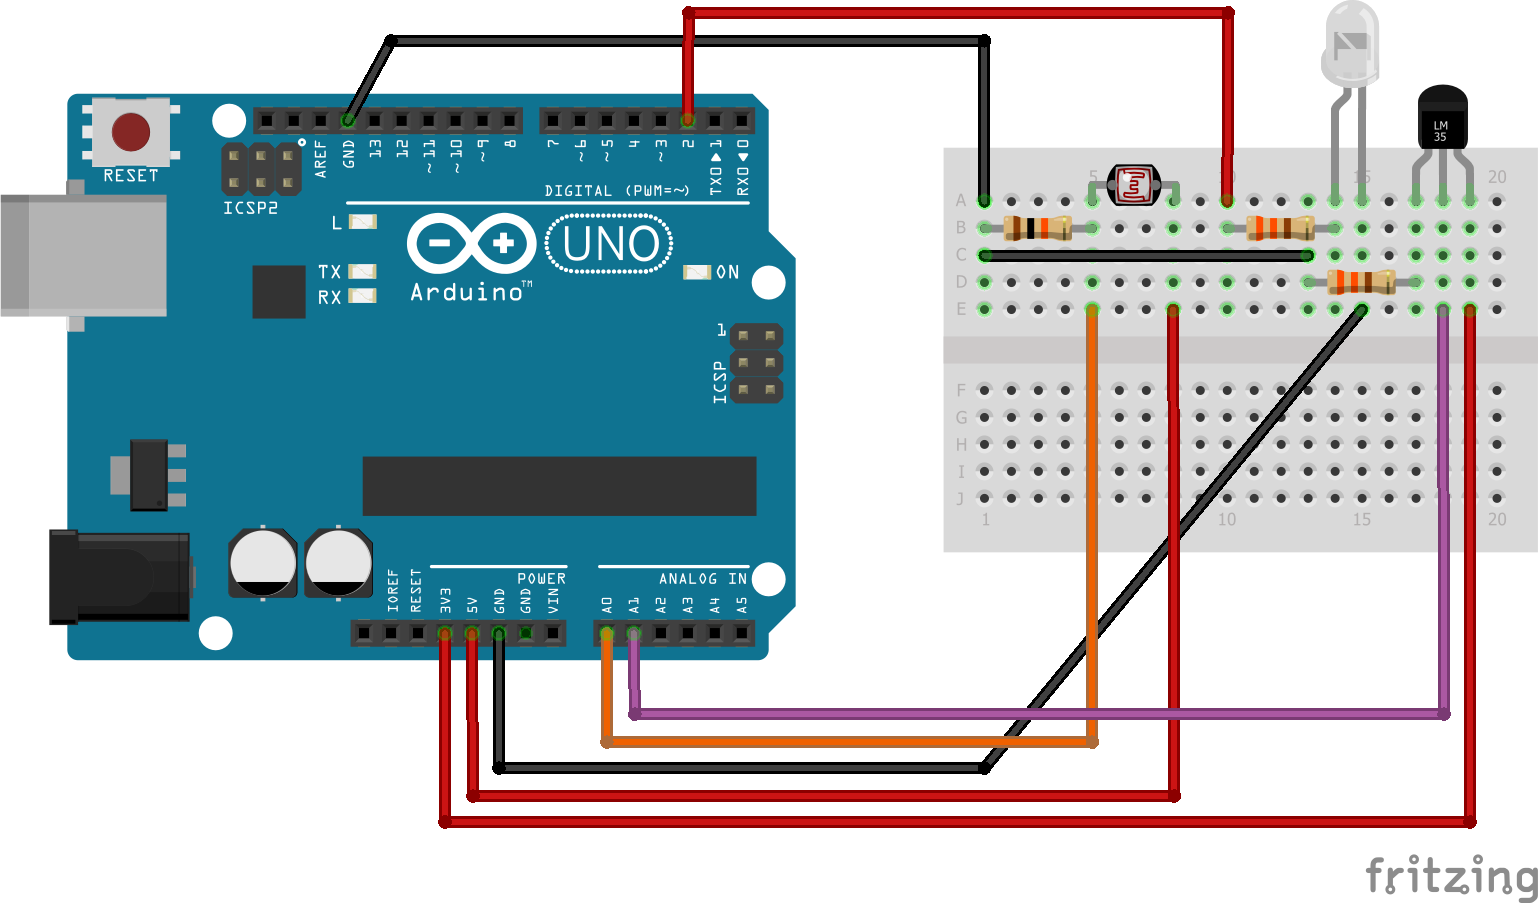
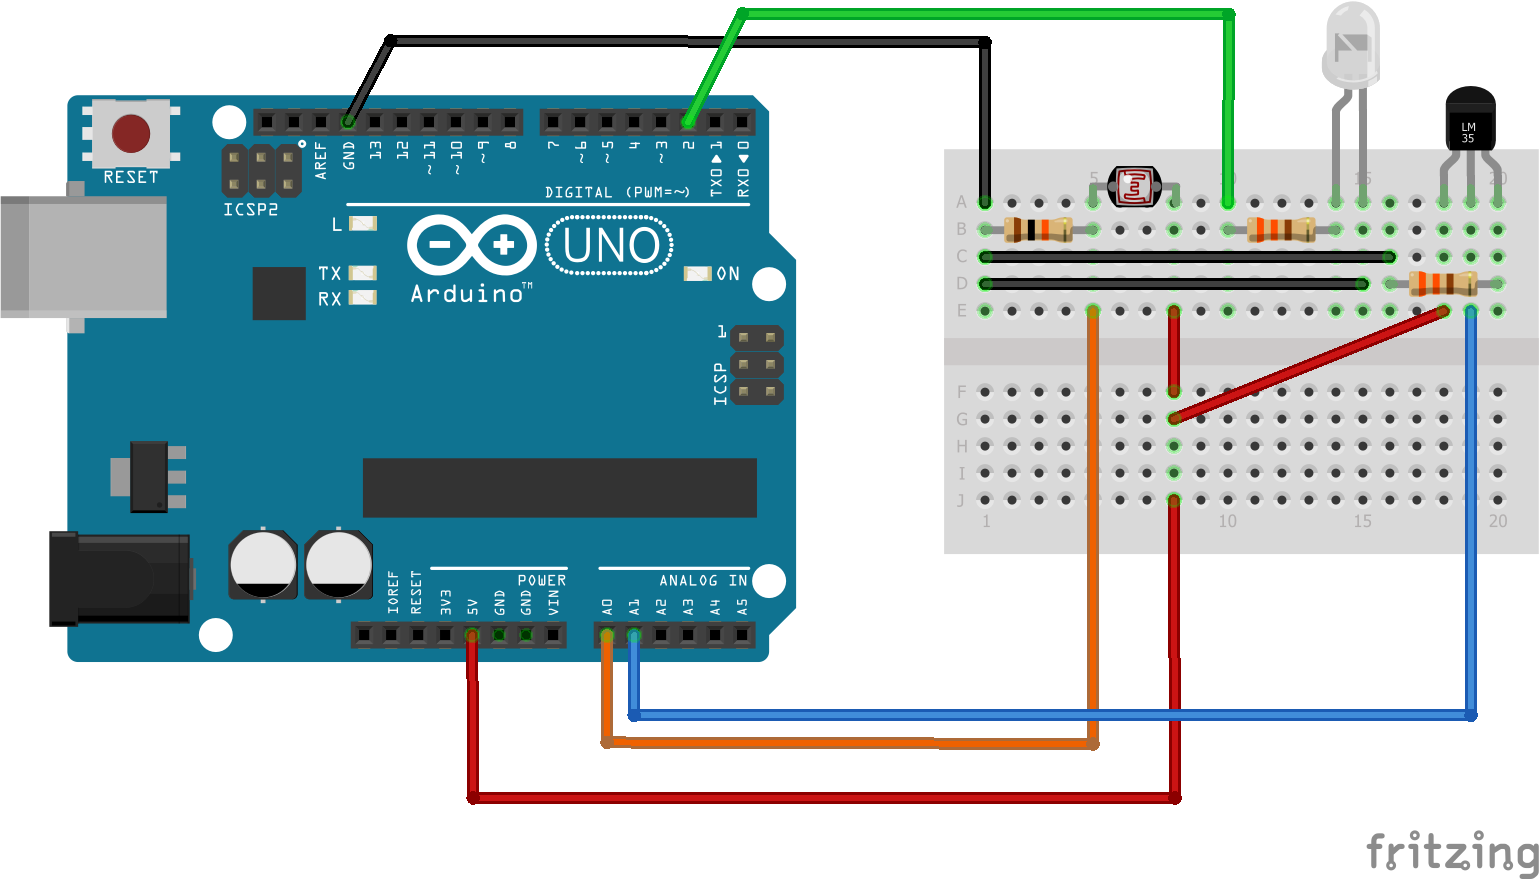
Serial send

diff --git a/luminosidade.py b/luminosidade.py
@@ -1,0 +1,28 @@
+#https://www.embarcados.com.br/python-e-arduino-comunicacao-serial/
+#https://www.youtube.com/watch?v=OleCp_TAXC8
+#!/usr/bin/python
+# -*- coding: iso-8859-1 -*-
+import time
+import serial
+
+# Iniciando conexao serial
+#comport = serial.Serial('/dev/ttyUSB0', 9600)
+#comport = serial.Serial('/dev/ttyUSB0', 9600, timeout=1) # Setando timeout 1s para a conexao
+comport = serial.Serial('com5', 9600, timeout=5) # Setando timeout 1s para a conexao
+
+PARAM_CARACTER='t'
+PARAM_ASCII=str(chr(116)) # Equivalente 116 = t
+
+# Time entre a conexao serial e o tempo para escrever (enviar algo)
+time.sleep(1.8) # Entre 1.5s a 2s
+
+#comport.write(PARAM_CARACTER)
+comport.write(chr(116))
+
+VALUE_SERIAL=comport.readline()
+
+#print '\nRetorno da serial: %s' % (VALUE_SERIAL)
+print(VALUE_SERIAL)
+
+# Fechando conexao serial
+comport.close()
